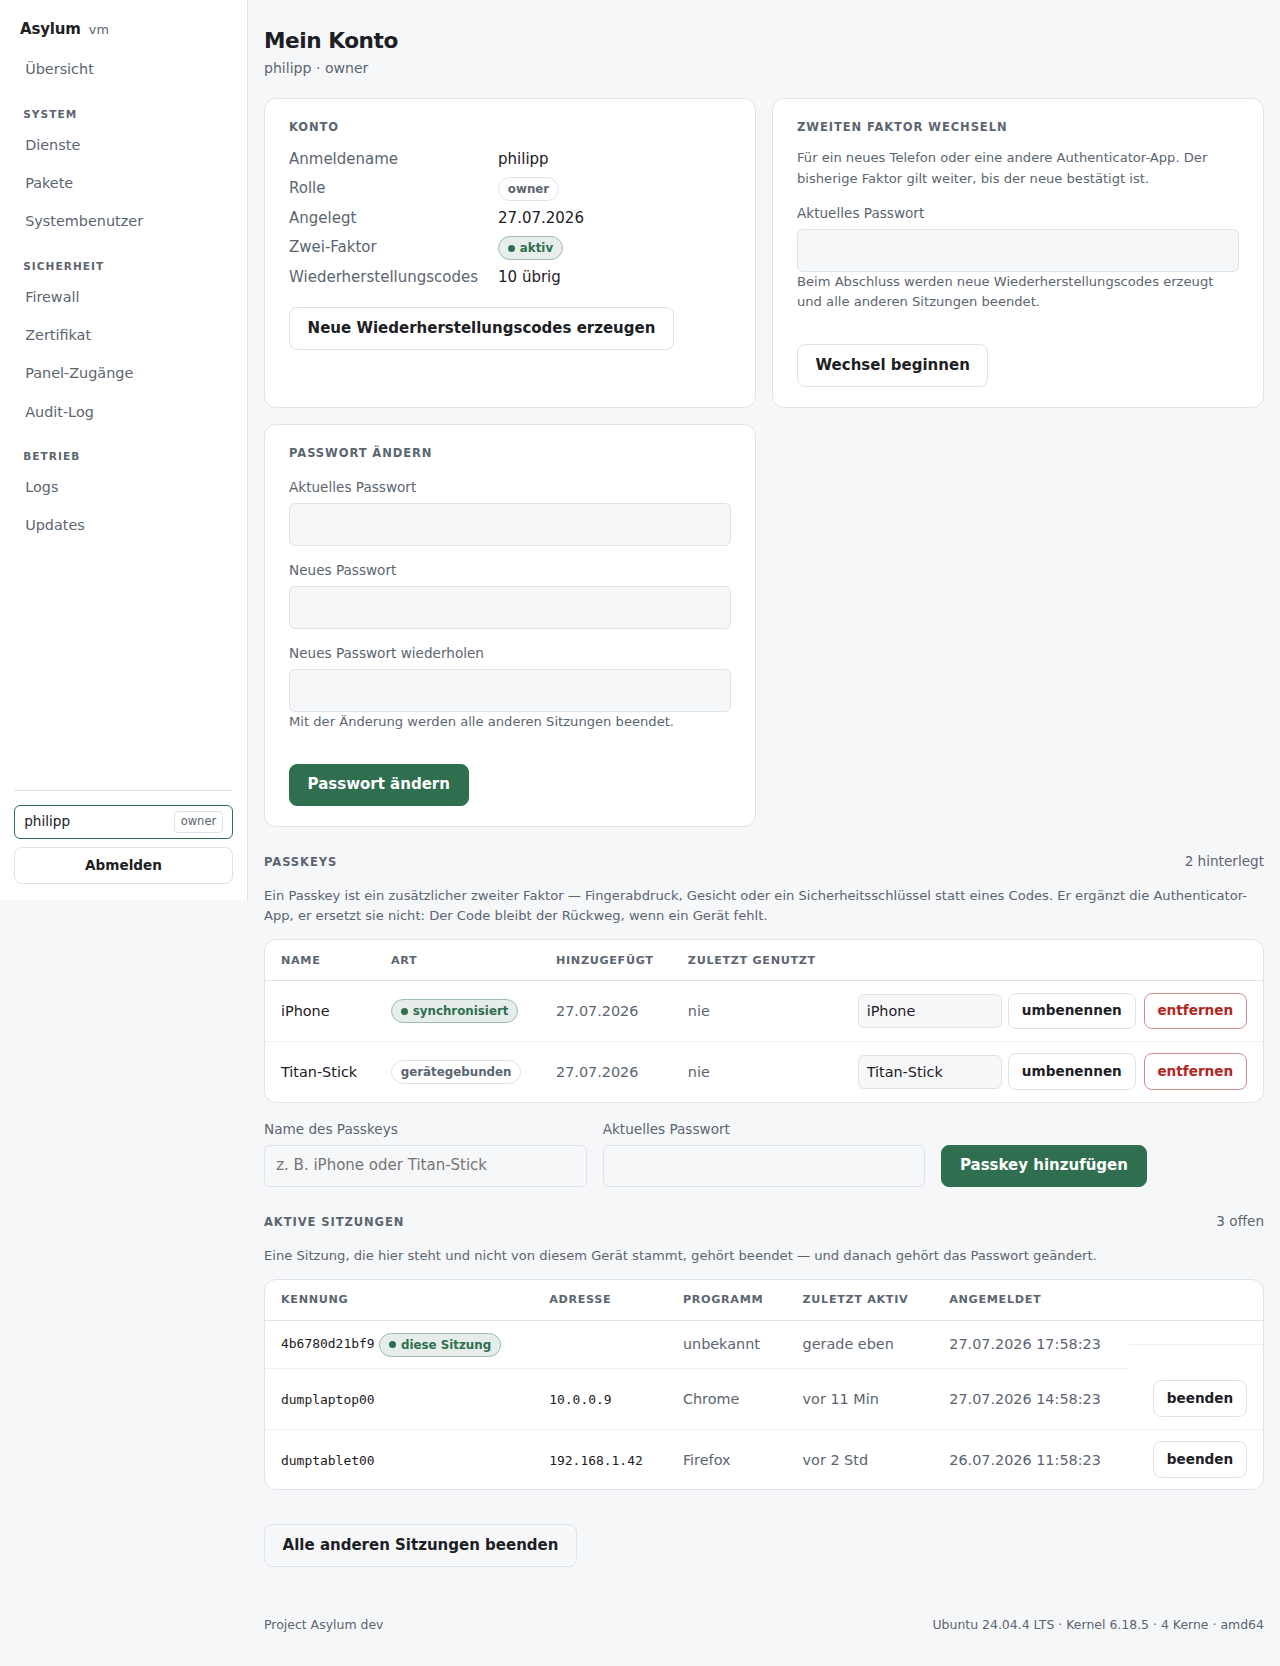
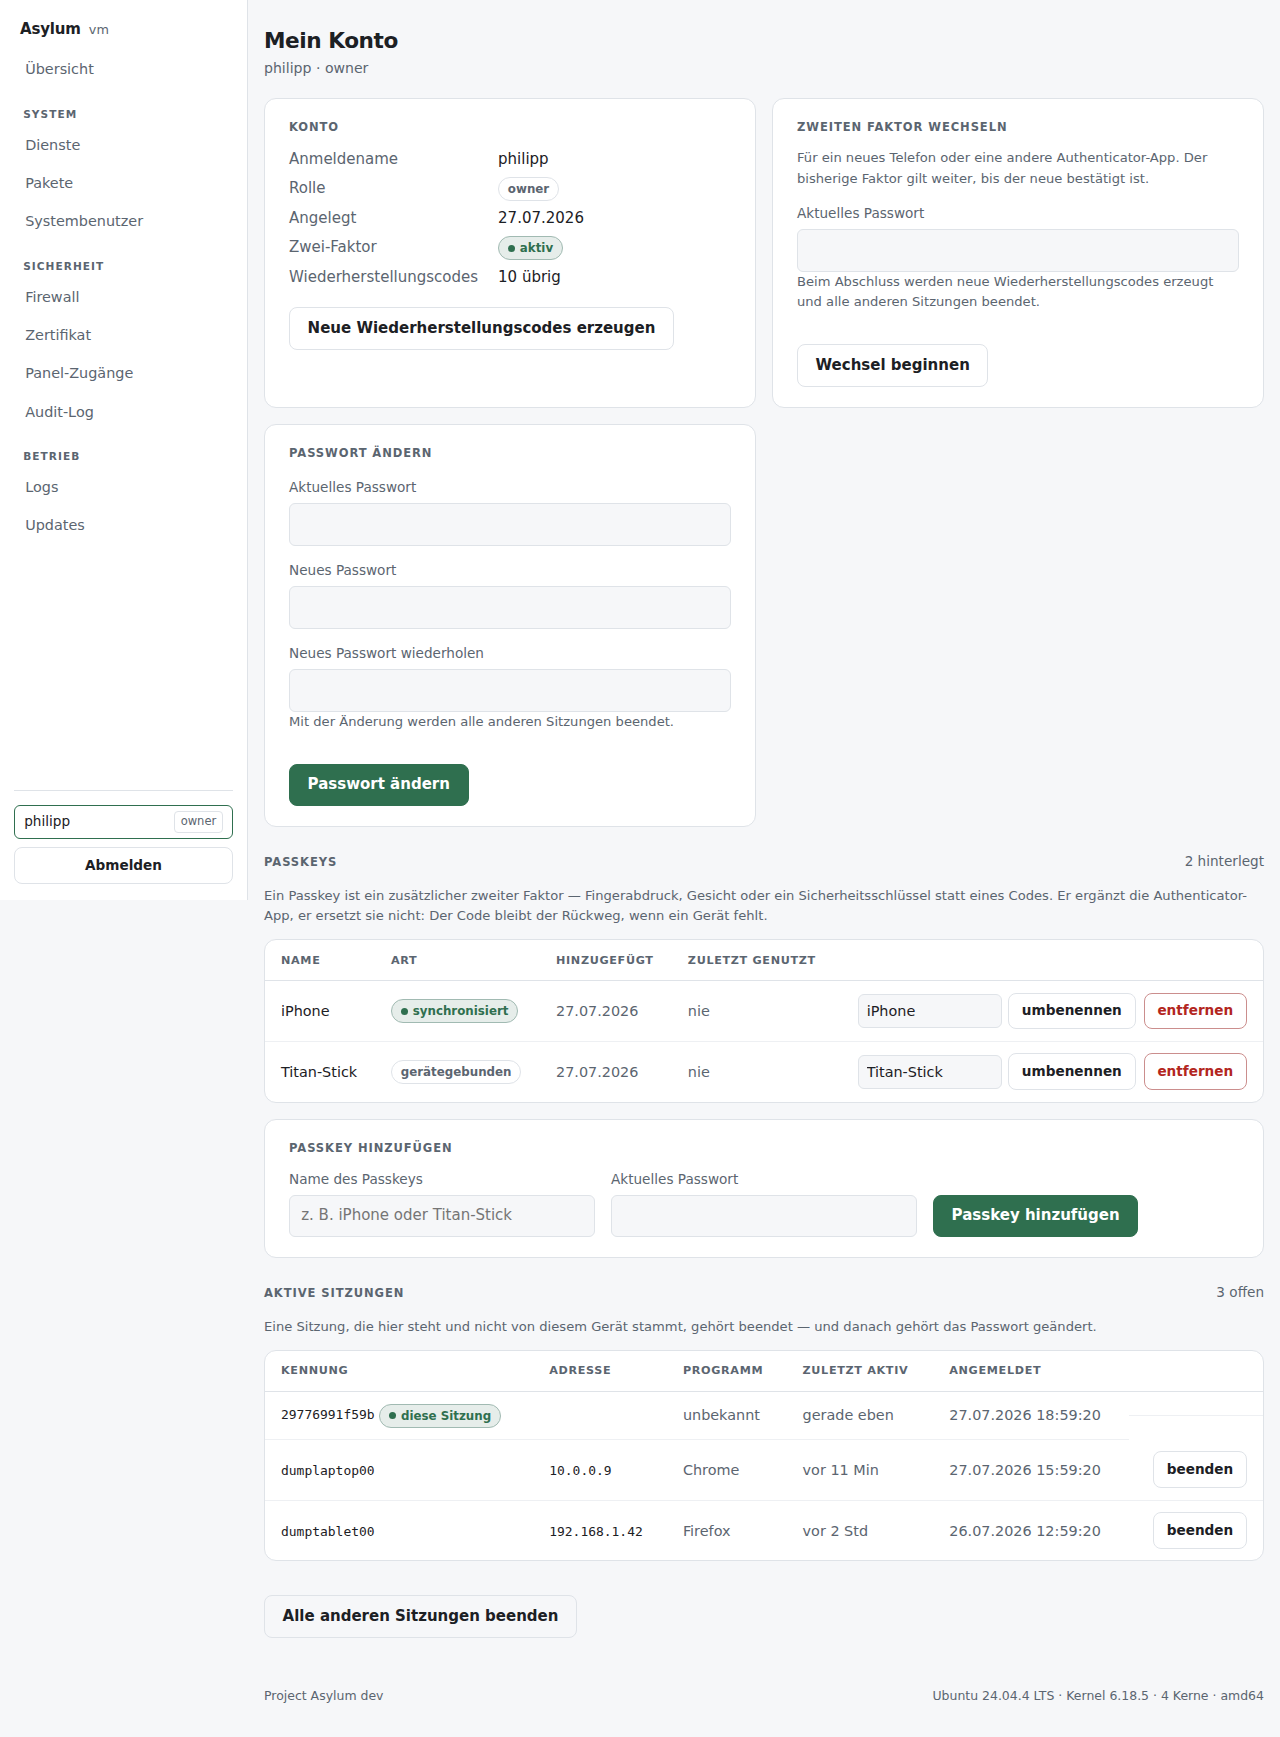
fix(ui): Passkey-Formular im Konto in eine Karte fassen
Das „Passkey hinzufügen"-Formular stand als nacktes row-form direkt auf dem
Seitenhintergrund und wirkte losgelöst, während alle anderen Blöcke der
Kontoseite (Konto, Faktor wechseln, Passwort ändern, auch „Konto anlegen" bei
den Systembenutzern) in Karten sitzen. Jetzt liegt es in einer eigenen Karte
mit Überschrift „Passkey hinzufügen", bündig mit der Liste darüber. Nur Markup;
Doku-Bild neu aufgenommen.

Claude-Session: https://claude.ai/code/session_01Xk3su4EqjKatZXMTb486Zo

diff --git a/internal/ui/templates/account.html b/internal/ui/templates/account.html
@@ -121,18 +121,21 @@
   </div>
   {{end}}
 
-  <form id="passkey-add" class="row-form" autocomplete="off" data-csrf="{{$.CSRF}}">
-    <div>
-      <label for="pk-label">Name des Passkeys</label>
-      <input type="text" id="pk-label" name="label" maxlength="60" placeholder="z. B. iPhone oder Titan-Stick">
-    </div>
-    <div>
-      <label for="pk-pass">Aktuelles Passwort</label>
-      <input type="password" id="pk-pass" name="password" autocomplete="current-password" required>
-    </div>
-    <div class="submit"><button type="submit">Passkey hinzufügen</button></div>
-  </form>
-  <p class="hint" id="pk-status" role="status" hidden></p>
+  <div class="card">
+    <div class="seclabel">Passkey hinzufügen</div>
+    <form id="passkey-add" class="row-form" autocomplete="off" data-csrf="{{$.CSRF}}">
+      <div>
+        <label for="pk-label">Name des Passkeys</label>
+        <input type="text" id="pk-label" name="label" maxlength="60" placeholder="z. B. iPhone oder Titan-Stick">
+      </div>
+      <div>
+        <label for="pk-pass">Aktuelles Passwort</label>
+        <input type="password" id="pk-pass" name="password" autocomplete="current-password" required>
+      </div>
+      <div class="submit"><button type="submit">Passkey hinzufügen</button></div>
+    </form>
+    <p class="hint" id="pk-status" role="status" hidden></p>
+  </div>
 </div>
 {{end}}
 
